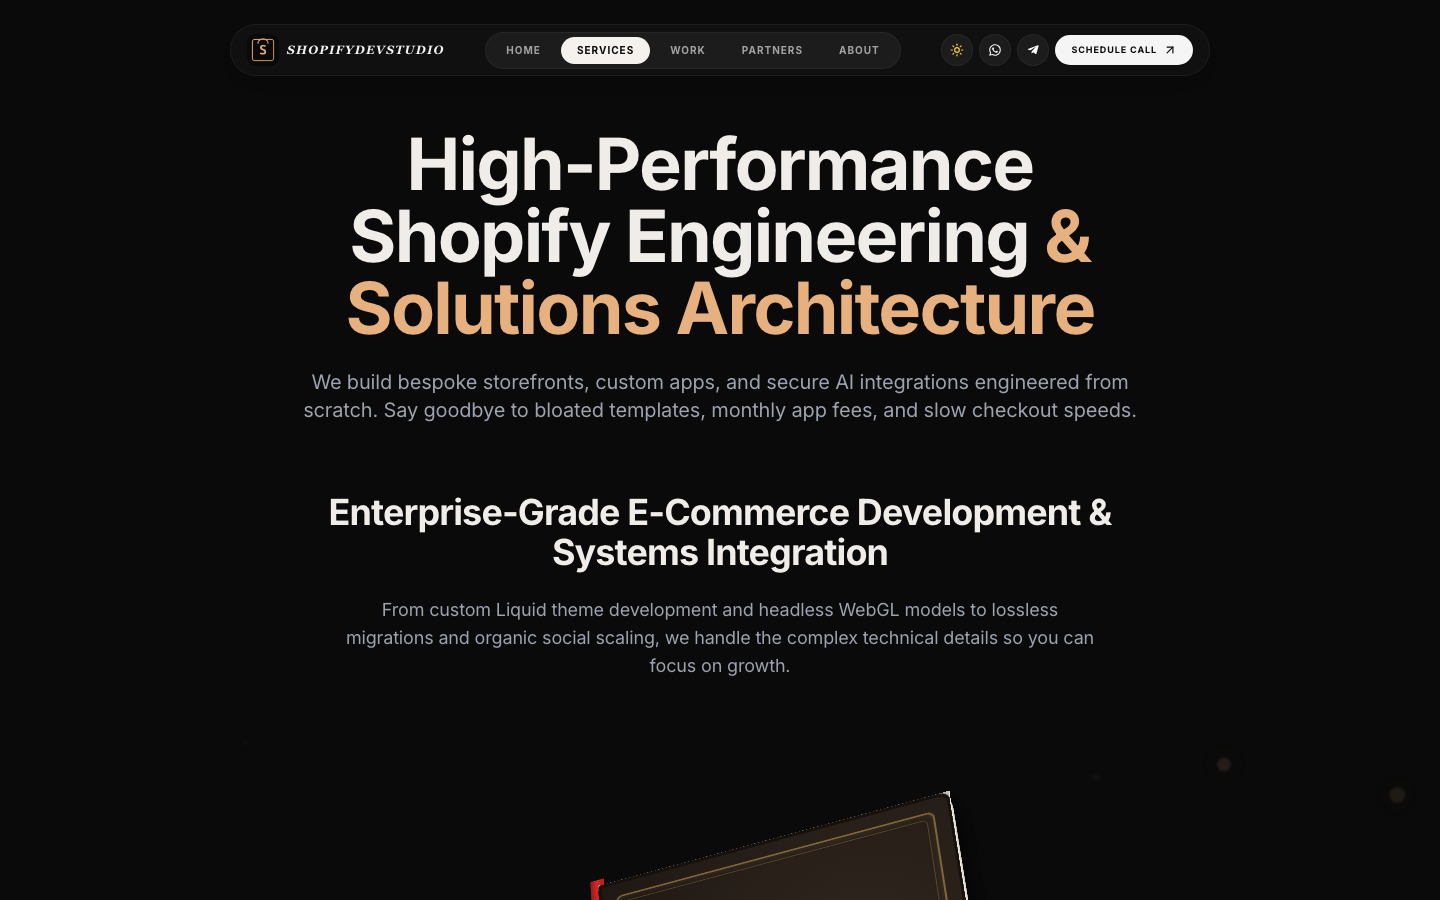
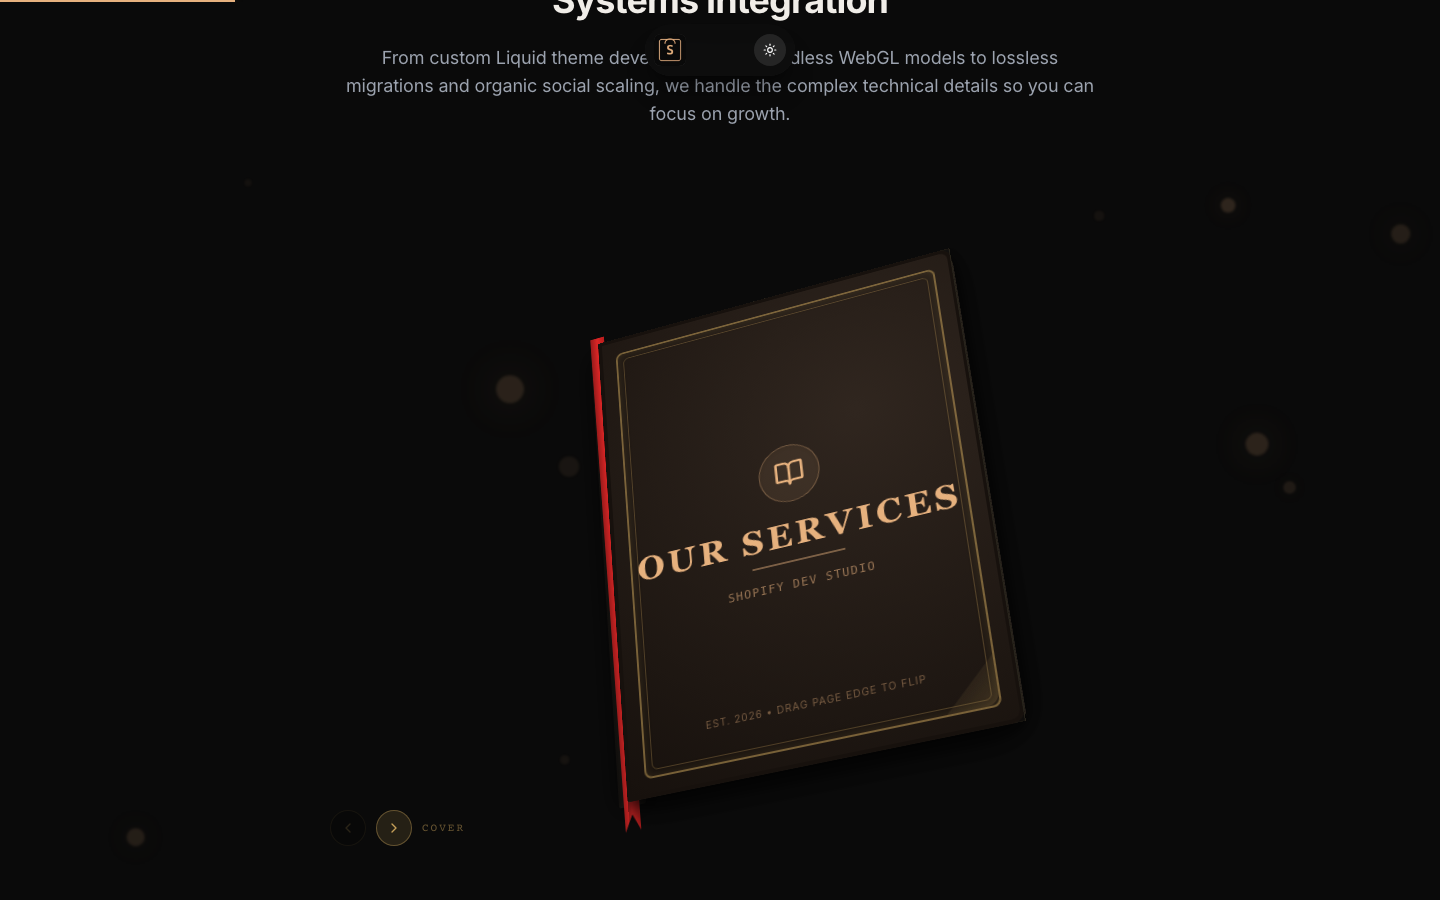
fix: remove guarantee results FAQ item with refund policy reference

diff --git a/scripts/screenshot.js b/scripts/screenshot.js
@@ -14,21 +14,30 @@ async function run() {
     console.log("Navigating to http://localhost:8080/services...");
     await page.goto("http://localhost:8080/services", { waitUntil: "networkidle" });
     
+    // Scroll the book viewport into view
+    await page.locator(".book-viewport").scrollIntoViewIfNeeded();
+    await page.waitForTimeout(500);
+    
     // Initial closed state
     await page.screenshot({ path: "test-services-closed.png" });
     console.log("Saved test-services-closed.png");
     
-    // Open the book (Page 1 & inside front cover)
+    // Open the book using JS click to bypass 3D hit-testing
     console.log("Clicking Next Page button to open cover...");
-    await page.click("button[aria-label='Next Page']");
-    await page.waitForTimeout(2000); // Wait for open transition
+    const nextBtn = page.locator("button[aria-label='Next Page']");
+    await nextBtn.evaluate(el => el.click());
+    await page.waitForTimeout(2000);
+    await page.locator(".book-viewport").scrollIntoViewIfNeeded();
+    await page.waitForTimeout(300);
     await page.screenshot({ path: "test-services-opened.png" });
     console.log("Saved test-services-opened.png");
 
-    // Flip to Page 2 & 3
-    console.log("Clicking Next Page button to flip to Page 2 & 3...");
-    await page.click("button[aria-label='Next Page']");
-    await page.waitForTimeout(2000); // Wait for page flip transition
+    // Flip to spread 2
+    console.log("Clicking Next Page button to flip to spread 2...");
+    await nextBtn.evaluate(el => el.click());
+    await page.waitForTimeout(2000);
+    await page.locator(".book-viewport").scrollIntoViewIfNeeded();
+    await page.waitForTimeout(300);
     await page.screenshot({ path: "test-services-spread1.png" });
     console.log("Saved test-services-spread1.png");
 

diff --git a/src/components/sections/FAQ.tsx b/src/components/sections/FAQ.tsx
@@ -21,12 +21,7 @@ const FAQ_ITEMS = [
       "Perfect! We specialize in transforming existing stores. We'll analyze your current setup, preserve what's working, and redesign areas that need improvement. All your products, customer data, and order history remain intact throughout the process.",
     icon: Store,
   },
-  {
-    question: "Do you guarantee results?",
-    answer:
-      "Yes, we offer a 30-day satisfaction guarantee. If you're not happy with the results, we'll work with you to make it right or provide a full refund. Our average clients see 25-40% improvement in conversion rates within the first month.",
-    icon: ShieldCheck,
-  },
+
   {
     question: "How is this different from hiring a freelancer?",
     answer:
